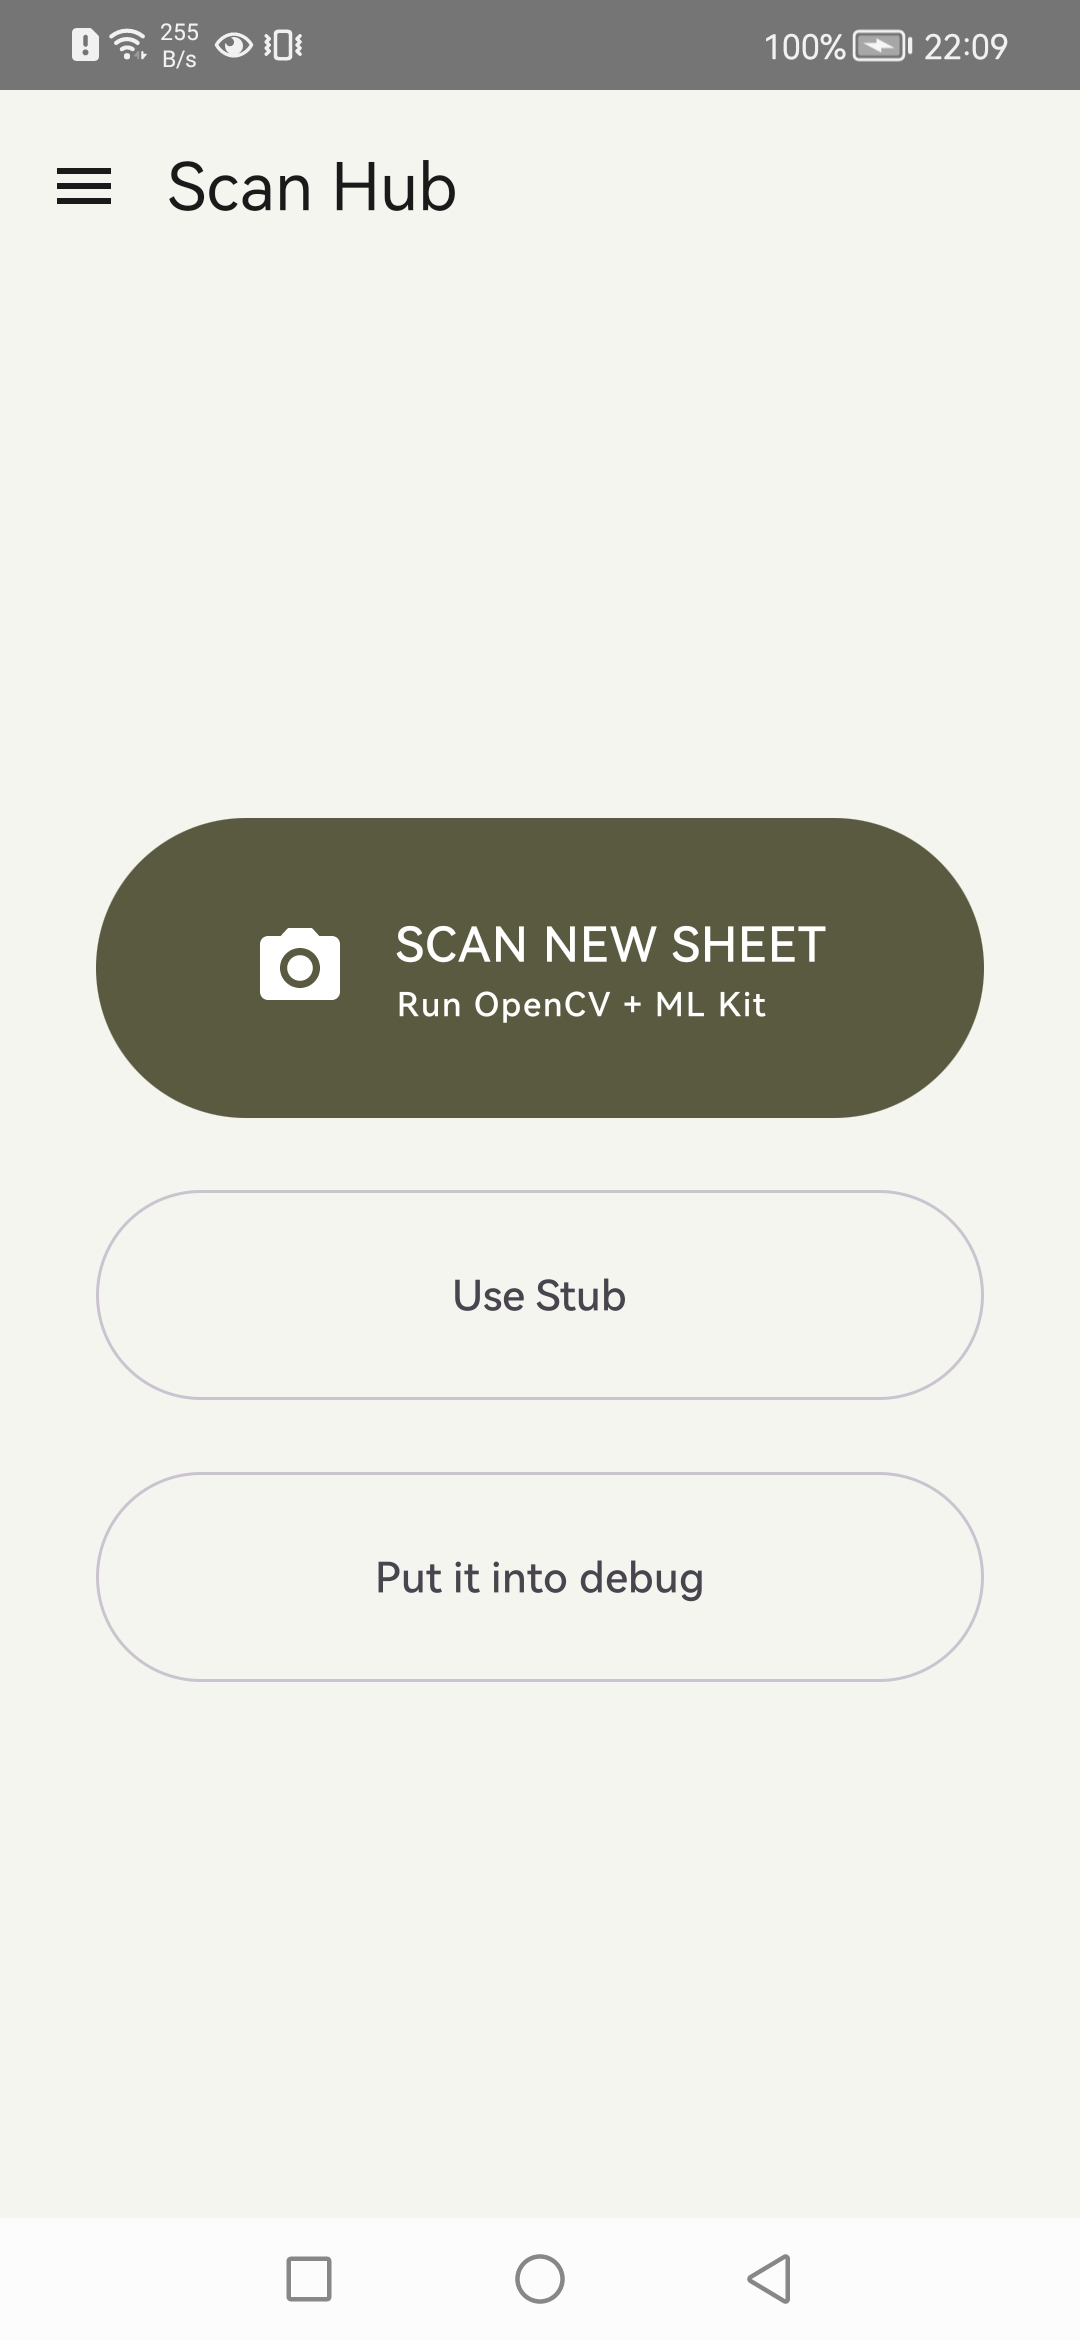
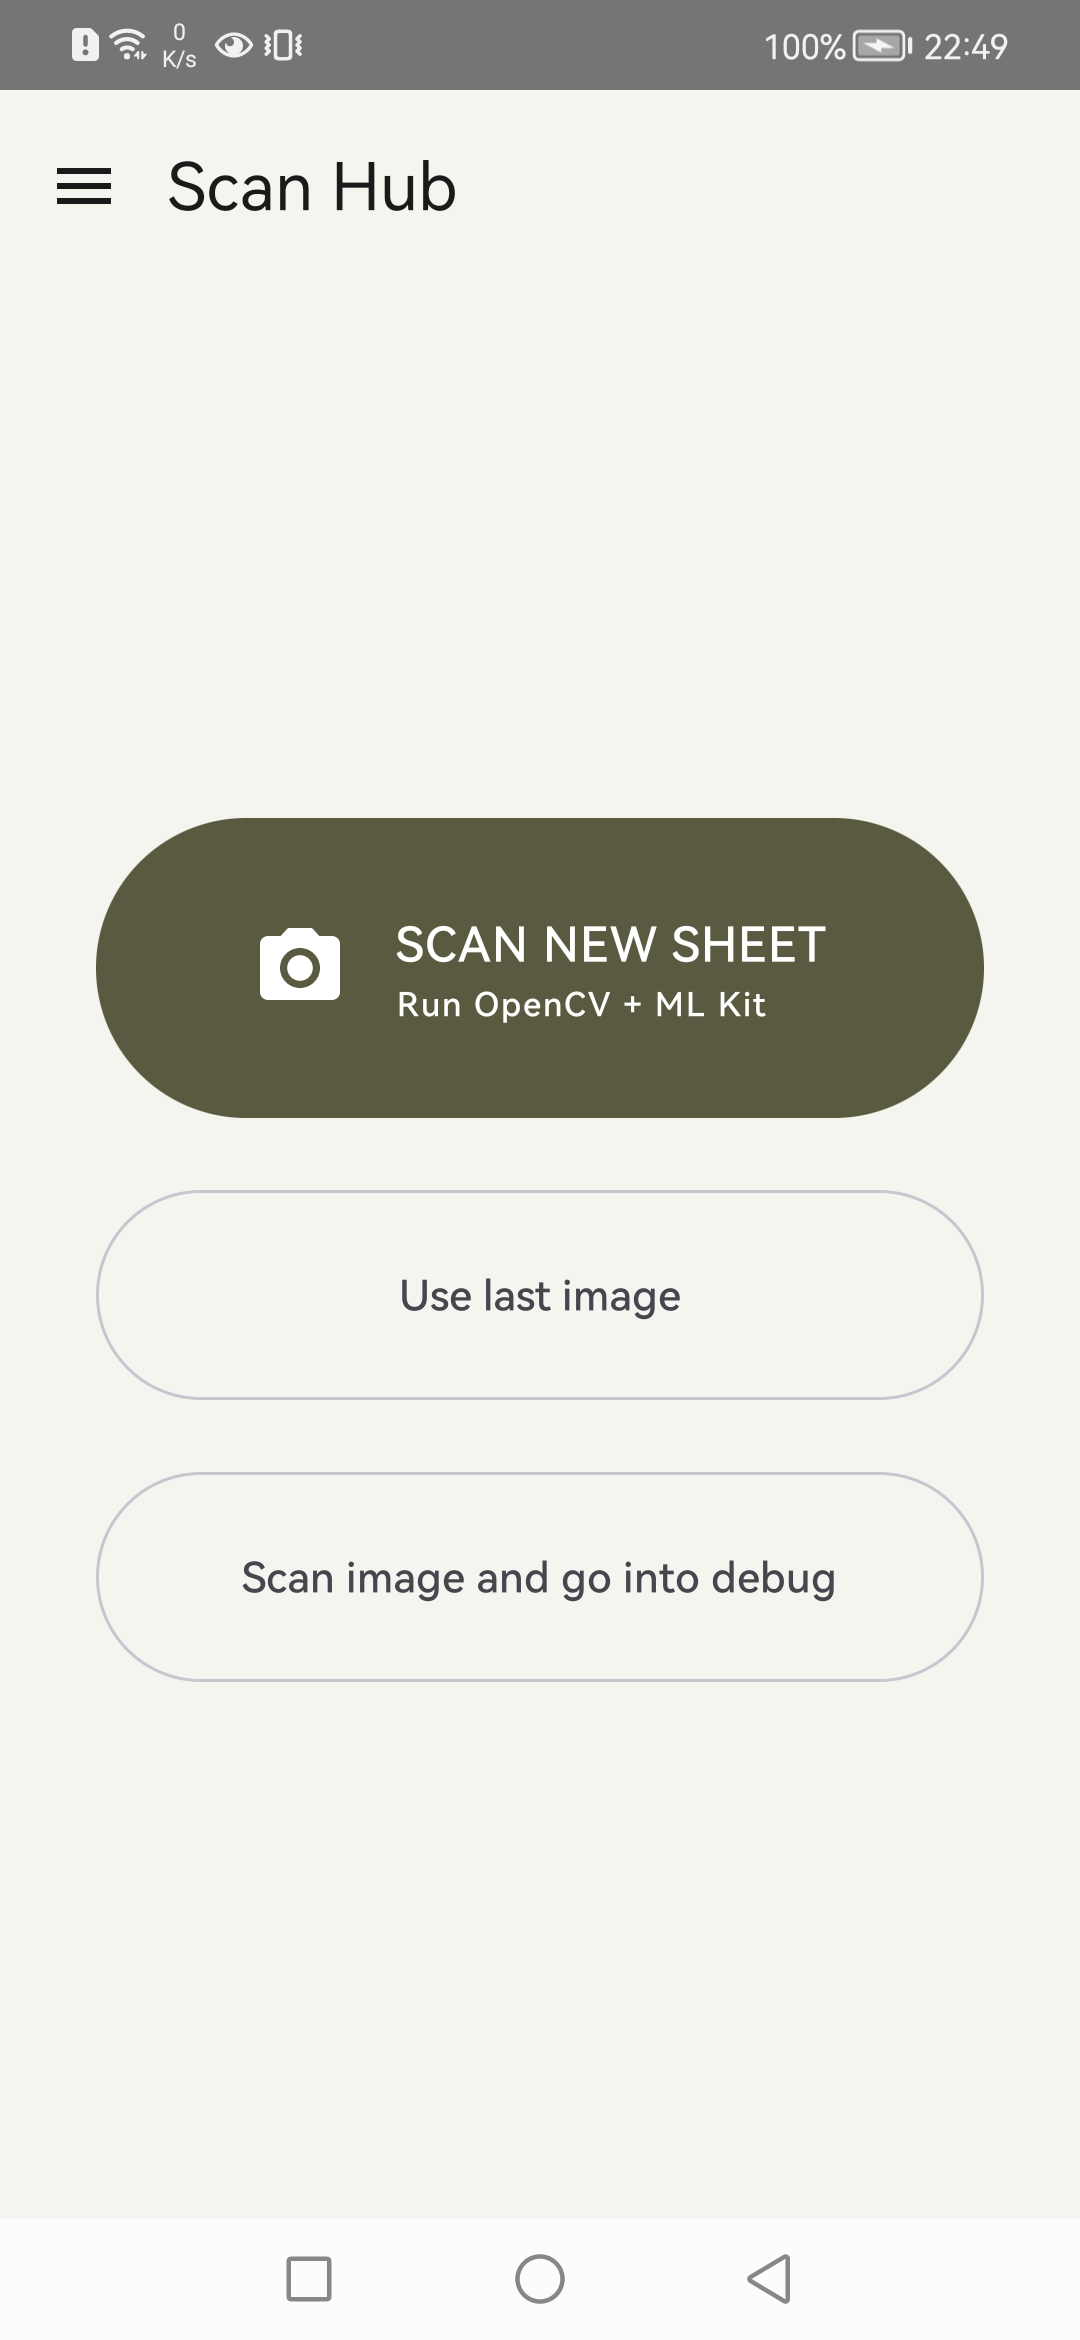
Add guard in navigation bar for disk operations Prevent multiple dates being requested to load at the same time Update gitHub picture

diff --git a/app/src/main/java/com/example/workflowocr/MainActivity.kt b/app/src/main/java/com/example/workflowocr/MainActivity.kt
@@ -632,6 +632,14 @@ private fun AppNavigationDrawer(
     originalBitmap: Bitmap,
     scope: CoroutineScope
 ) {
+    var pendingDate by remember { mutableStateOf<String?>(null) }
+    // Ignore drawer navigation while a saved date is being loaded or deleted.
+    fun selectDrawerScreen(screen: Screen) {
+        if (pendingDate == null) {
+            onScreenSelect(screen)
+            composeScope.launch { drawerState.close() }
+        }
+    }
     ModalNavigationDrawer(
         drawerState = drawerState,
         drawerContent = {
@@ -666,13 +674,13 @@ private fun AppNavigationDrawer(
                 NavigationDrawerItem(
                     label = { Text("Scan Hub") },
                     selected = state.currentScreen == Screen.SCAN_HUB,
-                    onClick = { onScreenSelect(Screen.SCAN_HUB); composeScope.launch { drawerState.close() } },
+                    onClick = { selectDrawerScreen(Screen.SCAN_HUB) },
                     icon = { Icon(Icons.Default.Home, null) }
                 )
                 NavigationDrawerItem(
                     label = { Text("Last Results") },
                     selected = state.currentScreen == Screen.TABLE_RESULTS,
-                    onClick = { onScreenSelect(Screen.TABLE_RESULTS); composeScope.launch { drawerState.close() } },
+                    onClick = { selectDrawerScreen(Screen.TABLE_RESULTS) },
                     icon = {
                         Icon(
                             imageVector = Icons.AutoMirrored.Filled.List,
@@ -683,7 +691,7 @@ private fun AppNavigationDrawer(
                 NavigationDrawerItem(
                     label = { Text("Attendance Summary") },
                     selected = state.currentScreen == Screen.ATTENDANCE_COUNT,
-                    onClick = { onScreenSelect(Screen.ATTENDANCE_COUNT); composeScope.launch { drawerState.close() } },
+                    onClick = { selectDrawerScreen(Screen.ATTENDANCE_COUNT) },
                     icon = { Icon(Icons.Filled.Calculate, null) }
                 )
 
@@ -724,13 +732,24 @@ private fun AppNavigationDrawer(
                             var showConfirmForThisItem by remember { mutableStateOf(false) }
 
                             NavigationDrawerItem(
-                                label = { Text(date, style = MaterialTheme.typography.bodyMedium) },
+                                label = {
+                                    Text(
+                                        if (pendingDate == date) "Loading $date…" else date,
+                                        style = MaterialTheme.typography.bodyMedium
+                                    )
+                                },
                                 selected = isCurrent,
                                 onClick = {
+                                    if (pendingDate != null) return@NavigationDrawerItem
+                                    pendingDate = date
                                     composeScope.launch {
-                                        tableViewModel.loadDate(date)
-                                        onScreenSelect(Screen.TABLE_RESULTS)
-                                        drawerState.close()
+                                        try {
+                                            tableViewModel.loadDate(date)
+                                            onScreenSelect(Screen.TABLE_RESULTS)
+                                            drawerState.close()
+                                        } finally {
+                                            pendingDate = null
+                                        }
                                     }
                                 },
                                 icon = {
@@ -743,7 +762,12 @@ private fun AppNavigationDrawer(
                                 },
                                 // The badge is automatically pushed to the far right
                                 badge = {
-                                    IconButton(onClick = { showConfirmForThisItem = true }) {
+                                    IconButton(
+                                        onClick = {
+                                            if (pendingDate == null) showConfirmForThisItem = true
+                                        },
+                                        enabled = pendingDate == null
+                                    ) {
                                         Icon(
                                             imageVector = Icons.Default.Delete,
                                             contentDescription = "Delete",
@@ -764,10 +788,16 @@ private fun AppNavigationDrawer(
                                     confirmButton = {
                                         TextButton(
                                             onClick = {
+                                                if (pendingDate != null) return@TextButton
                                                 showConfirmForThisItem = false
+                                                pendingDate = date
                                                 composeScope.launch {
-                                                    if (tableViewModel.deleteDate(date)) {
-                                                        onScreenSelect(Screen.SCAN_HUB)
+                                                    try {
+                                                        if (tableViewModel.deleteDate(date)) {
+                                                            onScreenSelect(Screen.SCAN_HUB)
+                                                        }
+                                                    } finally {
+                                                        pendingDate = null
                                                     }
                                                 }
                                             },
@@ -789,28 +819,25 @@ private fun AppNavigationDrawer(
                 NavigationDrawerItem(
                     label = { Text("VLH Dashboard") },
                     selected = state.currentScreen == Screen.VLH_MANAGEMENT,
-                    onClick = {
-                        onScreenSelect(Screen.VLH_MANAGEMENT)
-                        composeScope.launch { drawerState.close() }
-                    },
+                    onClick = { selectDrawerScreen(Screen.VLH_MANAGEMENT) },
                     icon = { Icon(Icons.AutoMirrored.Filled.MenuBook, contentDescription = "VLH Guidelines Matrix") }
                 )
                 NavigationDrawerItem(
                     label = { Text("Settings (Hub)") },
                     selected = state.currentScreen == Screen.SETTINGS,
-                    onClick = { onScreenSelect(Screen.SETTINGS); composeScope.launch { drawerState.close() } },
+                    onClick = { selectDrawerScreen(Screen.SETTINGS) },
                     icon = { Icon(Icons.Default.Settings, null) }
                 )
                 NavigationDrawerItem(
                     label = { Text("About & License") },
                     selected = state.currentScreen == Screen.ABOUT,
-                    onClick = { onScreenSelect(Screen.ABOUT); composeScope.launch { drawerState.close() } },
+                    onClick = { selectDrawerScreen(Screen.ABOUT) },
                     icon = { Icon(Icons.Default.Info, contentDescription = "About App") }
                 )
                 NavigationDrawerItem(
                     label = { Text("Sample Detection") },
                     selected = state.currentScreen == Screen.SAMPLE_DETECTION,
-                    onClick = { onScreenSelect(Screen.SAMPLE_DETECTION); composeScope.launch { drawerState.close() } },
+                    onClick = { selectDrawerScreen(Screen.SAMPLE_DETECTION) },
                     icon = { Icon(Icons.Default.Build, null) }
                 )
             }

diff --git a/app/src/main/java/com/example/workflowocr/ScanHubScreen.kt b/app/src/main/java/com/example/workflowocr/ScanHubScreen.kt
@@ -79,7 +79,7 @@ fun ScanHubScreen(onScanRequest: () -> Unit, onStubRequest: () -> Unit, onDebugS
                 .fillMaxWidth()
                 .height(70.dp)
         ) {
-            Text("Use Stub")
+            Text("Use last image")
         }
 
         Spacer(Modifier.height(24.dp))
@@ -90,7 +90,7 @@ fun ScanHubScreen(onScanRequest: () -> Unit, onStubRequest: () -> Unit, onDebugS
                 .fillMaxWidth()
                 .height(70.dp)
         ) {
-            Text("Put it into debug")
+            Text("Scan image and go into debug")
         }
     }
 }
